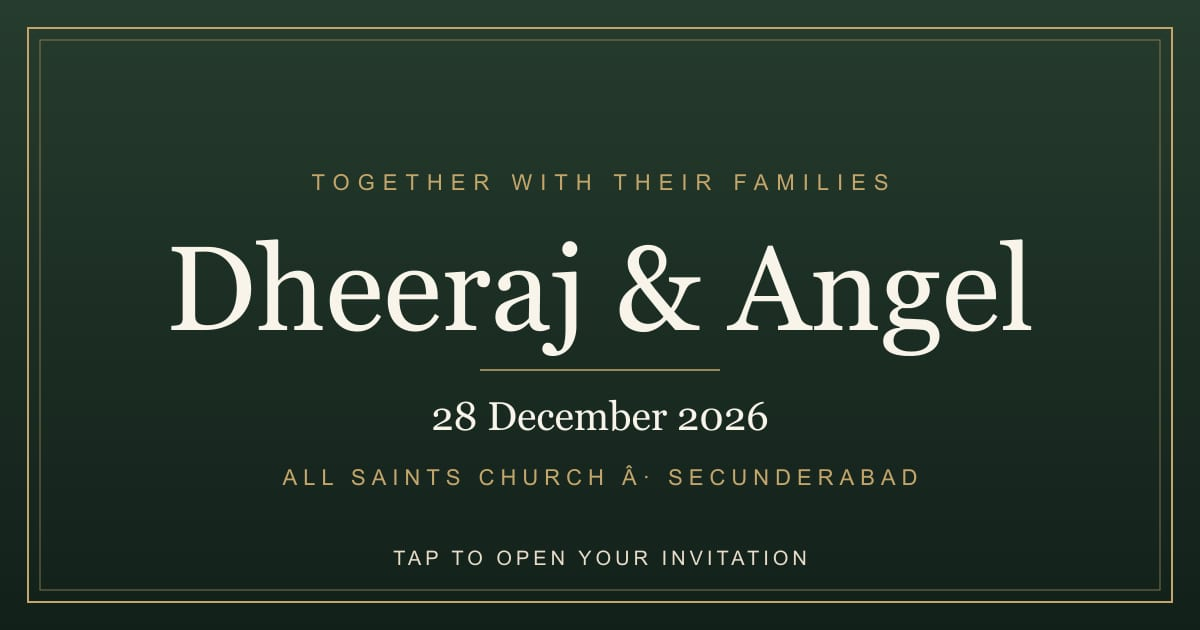
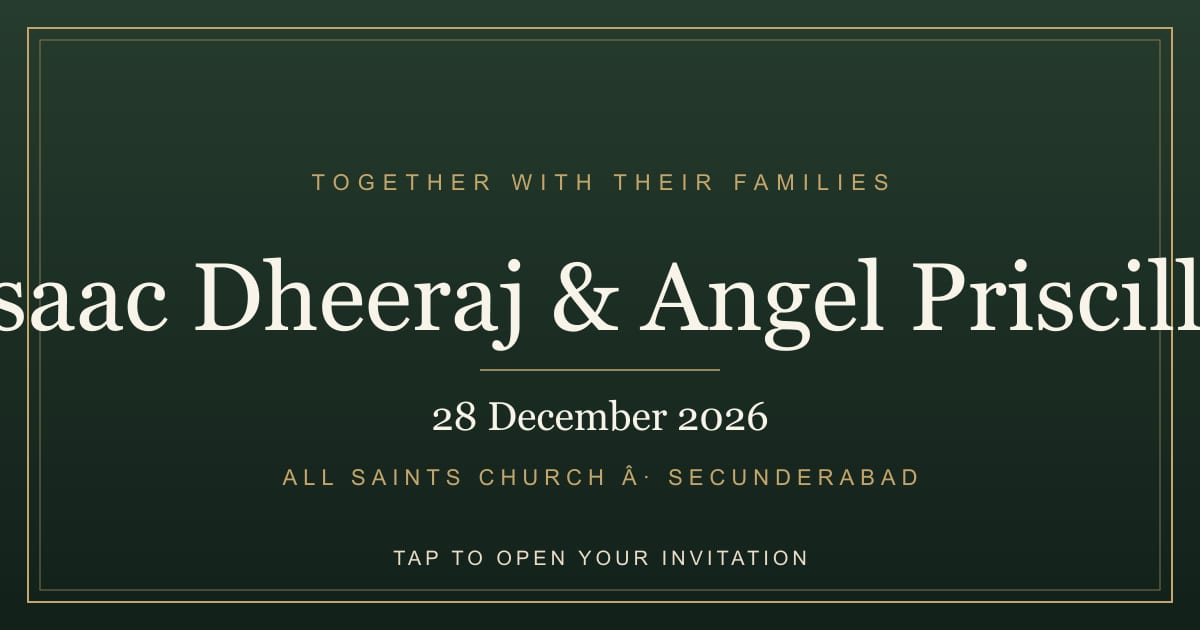
feat: update names to Isaac Dheeraj & Angel Priscilla across all sections, metadata, calendar, and manifest

Changed region(s): [[0.0, 0.3619, 1.0, 0.573]]

diff --git a/index.html b/index.html
@@ -5,21 +5,21 @@
   <meta name="viewport" content="width=device-width, initial-scale=1, viewport-fit=cover">
 
   <!-- ===== SHARE CARD (must stay near the top) ===== -->
-  <title>Dheeraj &amp; Angel — Wedding Invitation</title>
+  <title>Isaac Dheeraj &amp; Angel Priscilla — Wedding Invitation</title>
   <meta name="description" content="Monday, 28 December 2026 · All Saints Church, Secunderabad.">
   <meta property="og:type" content="website">
-  <meta property="og:site_name" content="Dheeraj &amp; Angel">
-  <meta property="og:title" content="Dheeraj &amp; Angel are getting married">
+  <meta property="og:site_name" content="Isaac Dheeraj &amp; Angel Priscilla">
+  <meta property="og:title" content="Isaac Dheeraj &amp; Angel Priscilla are getting married">
   <meta property="og:description" content="28 December 2026 · All Saints Church, Secunderabad">
   <meta property="og:url" content="https://dheeraj-and-angel.vercel.app/">
   <meta property="og:image" content="https://dheeraj-and-angel.vercel.app/og-image-v3.jpg">
   <meta property="og:image:type" content="image/jpeg">
   <meta property="og:image:width" content="1200">
   <meta property="og:image:height" content="630">
-  <meta property="og:image:alt" content="Dheeraj and Angel are getting married, 28 December 2026">
+  <meta property="og:image:alt" content="Isaac Dheeraj and Angel Priscilla are getting married, 28 December 2026">
   <meta property="og:locale" content="en_IN">
   <meta name="twitter:card" content="summary_large_image">
-  <meta name="twitter:title" content="Dheeraj &amp; Angel are getting married">
+  <meta name="twitter:title" content="Isaac Dheeraj &amp; Angel Priscilla are getting married">
   <meta name="twitter:description" content="28 December 2026 · All Saints Church, Secunderabad">
   <meta name="twitter:image" content="https://dheeraj-and-angel.vercel.app/og-image-v3.jpg">
 
@@ -102,7 +102,7 @@
   <svg class="crn br" viewBox="0 0 200 130" aria-hidden="true"><use href="#br"/></svg>
   <div class="invite">
     <p class="eyebrow">Together with their families</p>
-    <h1 class="names" aria-label="Dheeraj and Angel"><span data-split>Dheeraj</span><em class="amp">&amp;</em><span data-split>Angel</span></h1>
+    <h1 class="names" aria-label="Isaac Dheeraj and Angel Priscilla"><span data-split>Isaac Dheeraj</span><em class="amp">&amp;</em><span data-split>Angel Priscilla</span></h1>
     <div class="orn"><i></i><svg viewBox="-12 -12 24 24"><use href="#bl" x="-12" y="-12" width="24" height="24"/></svg><i></i></div>
     <p class="script">are getting married</p>
     
@@ -219,12 +219,12 @@
     <div class="pair">
       <figure class="pf rv" style="--d:3">
         <div class="arch"><svg class="ph" viewBox="0 0 100 130" preserveAspectRatio="xMidYMid slice"><use href="#ph-g" width="100" height="130"/></svg><svg class="fb" viewBox="-12 -12 24 24"><use href="#bl" x="-12" y="-12" width="24" height="24"/></svg></div>
-        <figcaption><span class="mono">D</span><b class="name" data-split>Dheeraj</b><small>The Groom</small></figcaption>
+        <figcaption><span class="mono">D</span><b class="name" data-split>Isaac Dheeraj</b><small>The Groom</small></figcaption>
       </figure>
       <span class="amp rv" style="--d:5">&amp;</span>
       <figure class="pf rv" style="--d:4">
         <div class="arch"><svg class="ph" viewBox="0 0 100 130" preserveAspectRatio="xMidYMid slice"><use href="#ph-b" width="100" height="130"/></svg><svg class="fb" viewBox="-12 -12 24 24"><use href="#bl" x="-12" y="-12" width="24" height="24"/></svg></div>
-        <figcaption><span class="mono">A</span><b class="name" data-split>Angel</b><small>The Bride</small></figcaption>
+        <figcaption><span class="mono">A</span><b class="name" data-split>Angel Priscilla</b><small>The Bride</small></figcaption>
       </figure>
     </div>
     <p class="script rv" style="--d:6">Two souls, one journey, and a lifetime of beautiful memories.</p>
@@ -294,7 +294,7 @@
     </div>
     <p class="script rv" style="--d:3">We can’t wait to celebrate our special day with you!</p>
 
-    <p class="sign rv" style="--d:6">With love, Dheeraj &amp; Angel</p>
+    <p class="sign rv" style="--d:6">With love, Isaac Dheeraj &amp; Angel Priscilla</p>
   </div>
 </section>
 </main>

diff --git a/app.js b/app.js
@@ -1,4 +1,4 @@
-/* Dheeraj & Angel — Luxury Wedding Invitation Logic. Vanilla JS. */
+/* Isaac Dheeraj & Angel Priscilla — Luxury Wedding Invitation Logic. Vanilla JS. */
 import './bg-music.js';
 import EnvelopeIntro from './envelope-animation.js';
 import './painterly.js';
@@ -13,7 +13,7 @@ const reduce = matchMedia('(prefers-reduced-motion: reduce)').matches;
 const CONFIG = {
   eventStart: '2026-12-28T11:00:00+05:30',   // IST
   eventEnd:   '20261228T130000',             // Calendar end
-  title: 'Wedding of Dheeraj & Angel',
+  title: 'Wedding of Isaac Dheeraj & Angel Priscilla',
   venue: 'All Saints Church, Secunderabad',
   endpoint: ''
 };
@@ -274,17 +274,17 @@ $('#calBtn')?.addEventListener('click', () => {
   const esc = s => s.replace(/[,;]/g, m => '\\' + m), z = n => String(n).padStart(2, '0'), d = new Date();
   const stamp = `${d.getUTCFullYear()}${z(d.getUTCMonth() + 1)}${z(d.getUTCDate())}T${z(d.getUTCHours())}${z(d.getUTCMinutes())}${z(d.getUTCSeconds())}Z`;
   const ics = [
-    'BEGIN:VCALENDAR', 'VERSION:2.0', 'PRODID:-//Dheeraj & Angel//Wedding Invitation//EN', 'CALSCALE:GREGORIAN', 'METHOD:PUBLISH',
+    'BEGIN:VCALENDAR', 'VERSION:2.0', 'PRODID:-//Isaac Dheeraj & Angel Priscilla//Wedding Invitation//EN', 'CALSCALE:GREGORIAN', 'METHOD:PUBLISH',
     'BEGIN:VTIMEZONE', 'TZID:Asia/Kolkata', 'BEGIN:STANDARD', 'DTSTART:19700101T000000', 'TZOFFSETFROM:+0530', 'TZOFFSETTO:+0530', 'TZNAME:IST', 'END:STANDARD', 'END:VTIMEZONE',
-    'BEGIN:VEVENT', 'UID:dheeraj-angel-wedding-20261228@invitation', 'DTSTAMP:' + stamp,
+    'BEGIN:VEVENT', 'UID:isaac-dheeraj-angel-priscilla-wedding-20261228@invitation', 'DTSTAMP:' + stamp,
     'DTSTART;TZID=Asia/Kolkata:20261228T110000', `DTEND;TZID=Asia/Kolkata:${CONFIG.eventEnd}`,
     'SUMMARY:' + esc(CONFIG.title), 'LOCATION:' + esc(CONFIG.venue),
-    'DESCRIPTION:' + esc('Wedding Ceremony & Nuptials of Dheeraj & Angel. We can\'t wait to celebrate with you!'),
+    'DESCRIPTION:' + esc('Wedding Ceremony & Nuptials of Isaac Dheeraj & Angel Priscilla. We can\'t wait to celebrate with you!'),
     'BEGIN:VALARM', 'TRIGGER:-P1D', 'ACTION:DISPLAY', 'DESCRIPTION:Wedding tomorrow', 'END:VALARM', 'END:VEVENT', 'END:VCALENDAR'
   ].join('\r\n');
   const a = document.createElement('a');
   a.href = URL.createObjectURL(new Blob([ics], { type: 'text/calendar;charset=utf-8' }));
-  a.download = 'Dheeraj-and-Angel-Wedding.ics';
+  a.download = 'Isaac-Dheeraj-and-Angel-Priscilla-Wedding.ics';
   document.body.appendChild(a);
   a.click();
   a.remove();

diff --git a/src/config/wedding.js b/src/config/wedding.js
@@ -1,5 +1,5 @@
 /**
- * Dheeraj & Angel — Wedding Configuration
+ * Isaac Dheeraj & Angel Priscilla — Wedding Configuration
  * 
  * Edit this single configuration file to customize all details of the wedding.
  * Modifying this file never requires touching component or presentation code.
@@ -9,28 +9,28 @@ export const weddingConfig = {
   // Couple Information
   couple: {
     groom: {
-      name: 'Dheeraj',
-      fullName: 'Dheeraj',
+      name: 'Isaac Dheeraj',
+      fullName: 'Isaac Dheeraj',
       role: 'The Groom',
       tagline: 'An architect of warmth, quiet devotion, and lifelong joy.',
       photo: '/assets/couple/dheeraj.jpg',
       initial: 'D',
     },
     bride: {
-      name: 'Angel',
-      fullName: 'Angel',
+      name: 'Angel Priscilla',
+      fullName: 'Angel Priscilla',
       role: 'The Bride',
       tagline: 'A spirit of grace, laughter, and radiant wonder.',
       photo: '/assets/couple/angle.jpg',
       initial: 'A',
     },
-    combined: 'Dheeraj & Angel',
+    combined: 'Isaac Dheeraj & Angel Priscilla',
     monogram: 'D & A',
   },
 
   // Event Schedule & Timing
   event: {
-    title: 'Wedding Ceremony of Dheeraj & Angel',
+    title: 'Wedding Ceremony of Isaac Dheeraj & Angel Priscilla',
     subTitle: 'Wedding Ceremony & Nuptials',
     isoDate: '2026-12-28T11:00:00+05:30', // IST target timestamp
     displayDate: 'Monday · 28 December 2026',
@@ -64,7 +64,7 @@ export const weddingConfig = {
     celebrationHeadline: 'The Celebration',
     countdownHeadline: 'Counting Down to Forever',
     countdownMessage: 'We can’t wait to celebrate our special day with you!',
-    closingSignoff: 'With love, Dheeraj & Angel',
+    closingSignoff: 'With love, Isaac Dheeraj & Angel Priscilla',
     begunMessage: 'Today is the day. Join us in celebration.',
     endedMessage: 'Thank you for celebrating with us.',
   },
@@ -101,7 +101,7 @@ export const weddingConfig = {
       id: 'sample-3',
       name: 'Grace & David',
       rsvp: 'Joyfully accepting',
-      message: 'So utterly delighted for you, Dheeraj and Angel! Can’t wait to raise a toast in Secunderabad.',
+      message: 'So utterly delighted for you, Isaac Dheeraj and Angel Priscilla! Can’t wait to raise a toast in Secunderabad.',
       timestamp: '2026-11-08T09:20:00.000Z',
       isSample: true,
     },

diff --git a/src/modules/calendar.js b/src/modules/calendar.js
@@ -82,7 +82,7 @@ export class CalendarManager {
     const rawLines = [
       'BEGIN:VCALENDAR',
       'VERSION:2.0',
-      'PRODID:-//Dheeraj & Angel//Wedding Invitation//EN',
+      'PRODID:-//Isaac Dheeraj & Angel Priscilla//Wedding Invitation//EN',
       'CALSCALE:GREGORIAN',
       'METHOD:PUBLISH',
       'BEGIN:VTIMEZONE',
@@ -132,7 +132,7 @@ export class CalendarManager {
 
     const link = document.createElement('a');
     link.href = url;
-    link.download = 'Dheeraj-and-Angel-Wedding.ics';
+    link.download = 'Isaac-Dheeraj-and-Angel-Priscilla-Wedding.ics';
     link.style.display = 'none';
 
     document.body.appendChild(link);
@@ -151,7 +151,7 @@ export class CalendarManager {
     const dates = '20261228T110000/20261228T130000';
     const ctz = 'Asia/Kolkata';
     const details = encodeURIComponent(
-      `Celebrating the marriage of Dheeraj & Angel at ${venue.name}, ${venue.city}.`
+      `Celebrating the marriage of Isaac Dheeraj & Angel Priscilla at ${venue.name}, ${venue.city}.`
     );
     const location = encodeURIComponent(`${venue.name}, ${venue.city}`);
 
